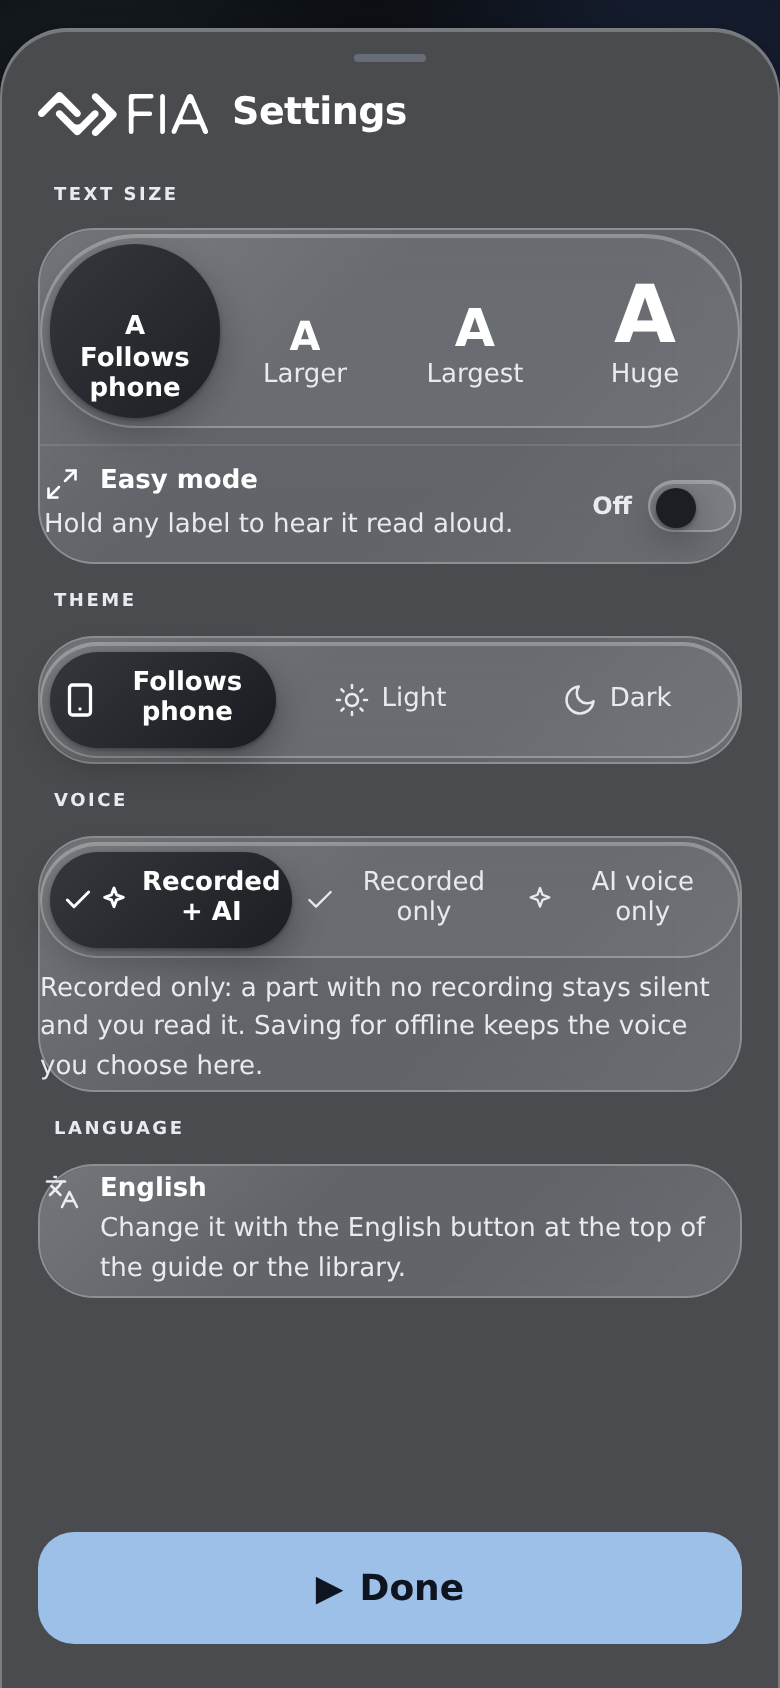
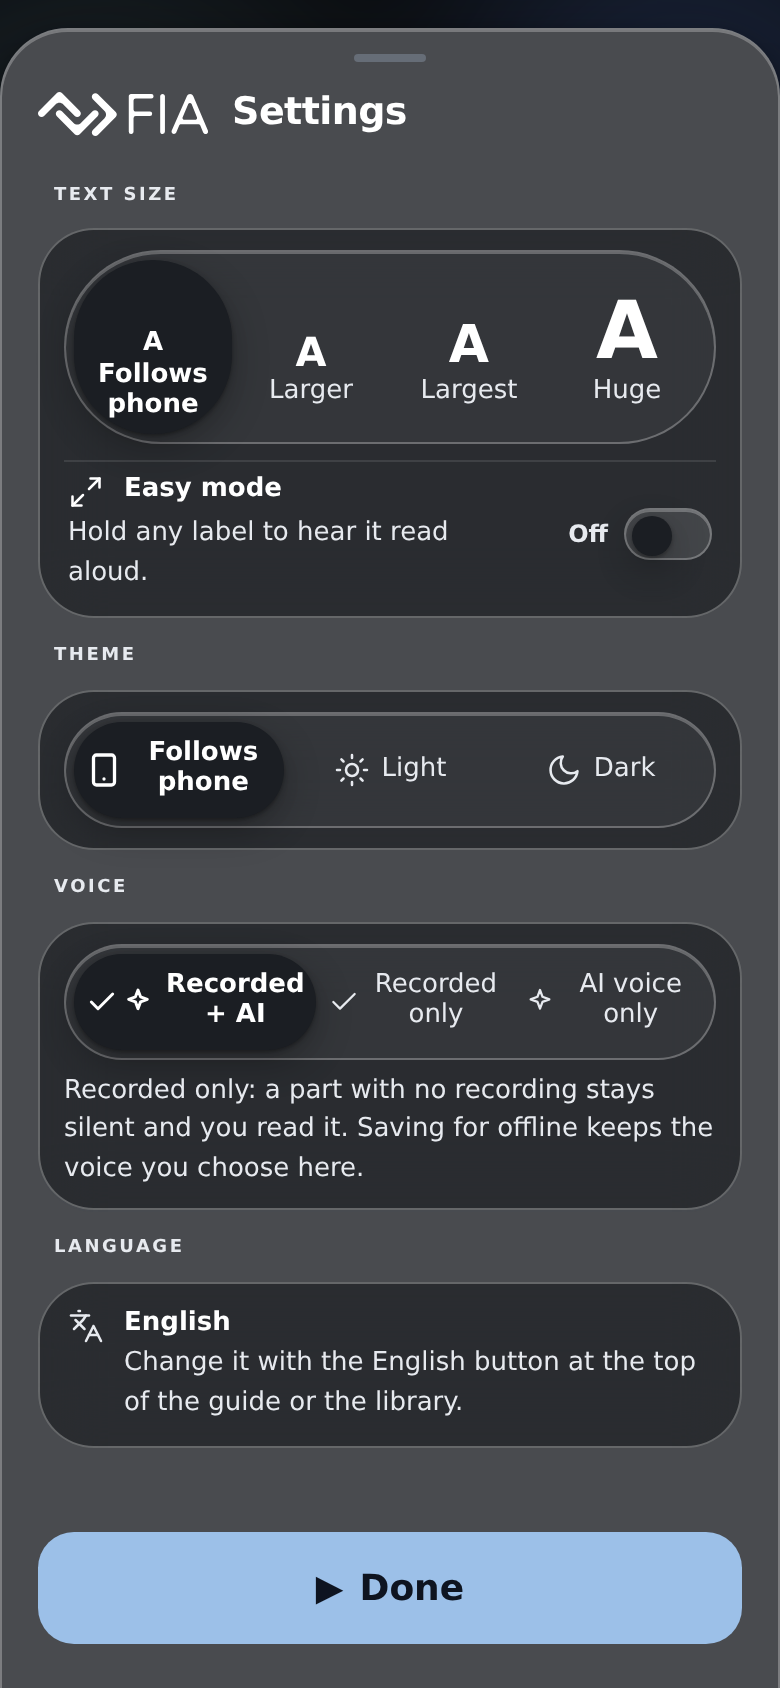
fix(F6-S14): review fixes from fix-f6-s14-1124
- 150% (Larger) and up: choices become a vertical list, so no option runs past its
  track at 320/360/390 px (PRD 8.5; review 1, 9); list rows may wrap a long word
- save-failed toast is a fixed child of the S14 page over the sheet, in the viewport
  (R-706; review 2)
- .fia-well.s14-card keeps the mock's 10/12 inset over app.css .fia-well (review 4, 6, 8)
- dark: S14 group wells are smoked frame wells with no sheen, as mock _frame.css:203-204
  (review 5, 8)
- tests: tests/s14-toast.test.ts (happy-dom, setItem throws), e2e/f6-s14-fixes.spec.ts
  (150% at 320/360/390, toast in viewport, well padding); red on pre-fix src
- screenshots/f6-s14 re-shot; new large150 light/dark at 390 and 360

Claude-Session: https://claude.ai/code/session_01UL3jJLr811FBsSwPHTeK16

diff --git a/e2e/f6-s14-fixes.spec.ts b/e2e/f6-s14-fixes.spec.ts
@@ -1,0 +1,60 @@
+import { expect, test, type Page } from '@playwright/test';
+
+// F6-S14 review fixes: 150% layout stays inside its track (1/9), the save-failed toast is on screen
+// (2), and the group wells keep the mock's 10/12 inset (4/6/8).
+const pickSize = async (page: Page, i: number) =>
+  page.getByRole('radiogroup', { name: 'Text size' }).getByRole('radio').nth(i).click();
+
+for (const width of [320, 360, 390]) {
+  test(`S14 at Larger (150%) keeps every choice inside its track at ${width}px`, async ({
+    page,
+  }) => {
+    await page.setViewportSize({ width, height: 800 });
+    await page.goto('/settings');
+    await pickSize(page, 1);
+    await expect(page.locator('.s14-seg.is-vertical').first()).toBeVisible();
+    const over = await page.evaluate(() => {
+      const bad: string[] = [];
+      for (const g of document.querySelectorAll<HTMLElement>('.s14-body [role="radiogroup"]')) {
+        const track = g.getBoundingClientRect();
+        for (const r of g.querySelectorAll<HTMLElement>('[role="radio"], .s14-opt, .s14-size')) {
+          const b = r.getBoundingClientRect();
+          if (b.right > track.right + 0.5 || b.right > innerWidth || b.left < track.left - 0.5)
+            bad.push(`${r.textContent} ${b.left}-${b.right} vs ${track.left}-${track.right}`);
+          if (r.getAttribute('role') === 'radio' && r.scrollWidth > r.clientWidth + 1)
+            bad.push(`${r.textContent} scroll ${r.scrollWidth}>${r.clientWidth}`);
+        }
+      }
+      return bad;
+    });
+    expect(over).toEqual([]);
+  });
+}
+
+test('S14 save-failed toast renders inside the viewport (R-706)', async ({ page }) => {
+  await page.addInitScript(() => {
+    const set = Storage.prototype.setItem;
+    Storage.prototype.setItem = function (k: string, v: string) {
+      if (k === 'fia.settings.v1') throw new DOMException('quota', 'QuotaExceededError');
+      return set.call(this, k, v);
+    };
+  });
+  await page.goto('/settings');
+  await page.getByRole('radiogroup', { name: 'Theme' }).getByRole('radio').nth(2).click();
+  const alert = page.getByRole('alert');
+  await expect(alert).toBeInViewport({ ratio: 1 });
+  const onTop = await alert.evaluate((el) => {
+    const b = el.getBoundingClientRect();
+    return el.contains(document.elementFromPoint(b.left + b.width / 2, b.top + b.height / 2));
+  });
+  expect(onTop).toBe(true);
+});
+
+test('S14 group wells keep the 10/12 inset over app.css .fia-well', async ({ page }) => {
+  await page.goto('/settings');
+  const pads = await page
+    .locator('.s14-card')
+    .evaluateAll((els) => els.map((e) => getComputedStyle(e).padding));
+  expect(pads.length).toBe(4);
+  for (const p of pads) expect(p).toBe('10px 12px');
+});

diff --git a/tests/s14-toast.test.ts b/tests/s14-toast.test.ts
@@ -1,0 +1,51 @@
+// @vitest-environment happy-dom
+// F6-S14 review 2 (R-706): when saving fails, the toast must render where it can be seen — a fixed
+// child of the S14 page over the sheet, not static after the 100% sheet inside a clipped field.
+import { act, createElement } from 'react';
+import { createRoot, type Root } from 'react-dom/client';
+import { MemoryRouter } from 'react-router-dom';
+import { afterEach, beforeEach, describe, expect, it, vi } from 'vitest';
+import S14Settings from '../src/screens/S14Settings';
+import { EN } from '../src/i18n';
+import { SETTINGS_KEY } from '../src/settings/settings';
+
+(globalThis as { IS_REACT_ACT_ENVIRONMENT?: boolean }).IS_REACT_ACT_ENVIRONMENT = true;
+
+let host: HTMLDivElement;
+let root: Root;
+const realSet = Storage.prototype.setItem;
+
+beforeEach(() => {
+  vi.spyOn(Storage.prototype, 'setItem').mockImplementation(function (this: Storage, k, v) {
+    if (k === SETTINGS_KEY) throw new DOMException('quota', 'QuotaExceededError');
+    realSet.call(this, k, v);
+  });
+  host = document.createElement('div');
+  document.body.append(host);
+  root = createRoot(host);
+});
+afterEach(() => {
+  act(() => root.unmount());
+  host.remove();
+  vi.restoreAllMocks();
+});
+
+describe('S14 save-failed toast', () => {
+  it('shows the alert as a fixed toast on the page, outside the sheet', () => {
+    act(() =>
+      root.render(
+        createElement(MemoryRouter, { initialEntries: ['/settings'] }, createElement(S14Settings)),
+      ),
+    );
+    expect(host.querySelector('[role="alert"]')).toBeNull();
+    const dark = [...host.querySelectorAll<HTMLElement>('[role="radio"]')].find((b) =>
+      b.textContent?.includes(EN['s.settings.theme.dark']),
+    );
+    act(() => dark!.click());
+    const alert = host.querySelector<HTMLElement>('[role="alert"]');
+    expect(alert?.textContent).toContain(EN['s.settings.save-failed']);
+    expect(alert?.classList.contains('s14-toast')).toBe(true);
+    expect(alert?.parentElement?.classList.contains('s14-page')).toBe(true);
+    expect(alert?.closest('[role="dialog"]')).toBeNull();
+  });
+});

diff --git a/src/tokens/alpha.css b/src/tokens/alpha.css
@@ -700,7 +700,19 @@ body {
 .s14-group > .fia-overline {
   padding: 0 4px 5px;
 }
-.s14-card {
+.s14-page > .fia-notice.s14-toast {
+  /* R-706: the save-failed toast sits in the viewport over the sheet, not after the 100% sheet in a
+     clipped field (F6-S14 review 2). */
+  position: fixed;
+  top: calc(env(safe-area-inset-top, 0px) + 12px);
+  left: 16px;
+  right: 16px;
+  z-index: 50;
+  overflow-wrap: anywhere;
+}
+/* app.css loads after this file and its same-specificity `.fia-well { padding: 2px 0 }` won; the
+   compound selector keeps the mock's 10/12 inset (14-settings.html:114; F6-S14 review 4/6/8). */
+.fia-well.s14-card {
   padding: 10px 12px;
 }
 .s14-sep {
@@ -757,6 +769,13 @@ body {
 .s14-seg.is-vertical .s14-opt {
   justify-content: flex-start;
   text-align: start;
+}
+/* A full-width list row may wrap a long word rather than run past its track (PRD § 8.5, 320 px). */
+.s14-seg.is-vertical [role='radio'],
+.s14-seg.is-vertical .s14-opt,
+.s14-seg.is-vertical .s14-size {
+  min-width: 0;
+  overflow-wrap: anywhere;
 }
 /* Text size: each option shows an "A" at the size it gives (a preview, not scaled) over its word. */
 .s14-size {
@@ -881,6 +900,14 @@ body {
    is a frame well, the track drops to --glass-fill-1, secondary words take --text-body (mock 14-settings). */
 .s14-body .fia-overline {
   color: var(--text-muted);
+}
+/* Dark: each group card is a frame well, smoked with no sheen (mock _frame.css:203-204), so the
+   secondary words read 10:1 rather than 4.1-4.4:1 on the lifted level-3 glass (F6-S14 review 5/8). */
+[data-theme='dark'] .s14-card.fia-well {
+  background: color-mix(in srgb, var(--surface-app) 50%, transparent) !important;
+}
+[data-theme='dark'] .s14-card.fia-well > span[aria-hidden='true']:first-child {
+  display: none;
 }
 [data-theme='dark'] .s14-seg {
   background: var(--glass-fill-1) !important;

diff --git a/src/screens/S14Settings.tsx b/src/screens/S14Settings.tsx
@@ -135,9 +135,12 @@ export default function S14Settings() {
     if (!r.ok) setFailed(true);
   };
 
-  // PRD § 8.5: at 200% and above the controls become vertical lists and the title scrolls with the body.
+  // PRD § 8.5: above 1× the controls stack (vertical lists from Larger, 150%, so no choice runs past its
+  // track at 360-390 px); at 200% and above the title also scrolls with the body.
   const big = SIZE_K[settings.textSize] >= 2;
-  const seg = (extra = '') => ['s14-seg', extra, big && 'is-vertical'].filter(Boolean).join(' ');
+  const stacked = SIZE_K[settings.textSize] >= 1.5;
+  const seg = (extra = '') =>
+    ['s14-seg', extra, stacked && 'is-vertical'].filter(Boolean).join(' ');
   const lang = autonym(settings.contentLanguage);
   const title = (
     <div className="s14-title">
@@ -285,7 +288,7 @@ export default function S14Settings() {
           </div>
         </GlassSheet>
         {failed && (
-          <ToastNotice kind="toast" tone="error">
+          <ToastNotice kind="toast" tone="error" className="s14-toast">
             {t('s.settings.save-failed')}
           </ToastNotice>
         )}
